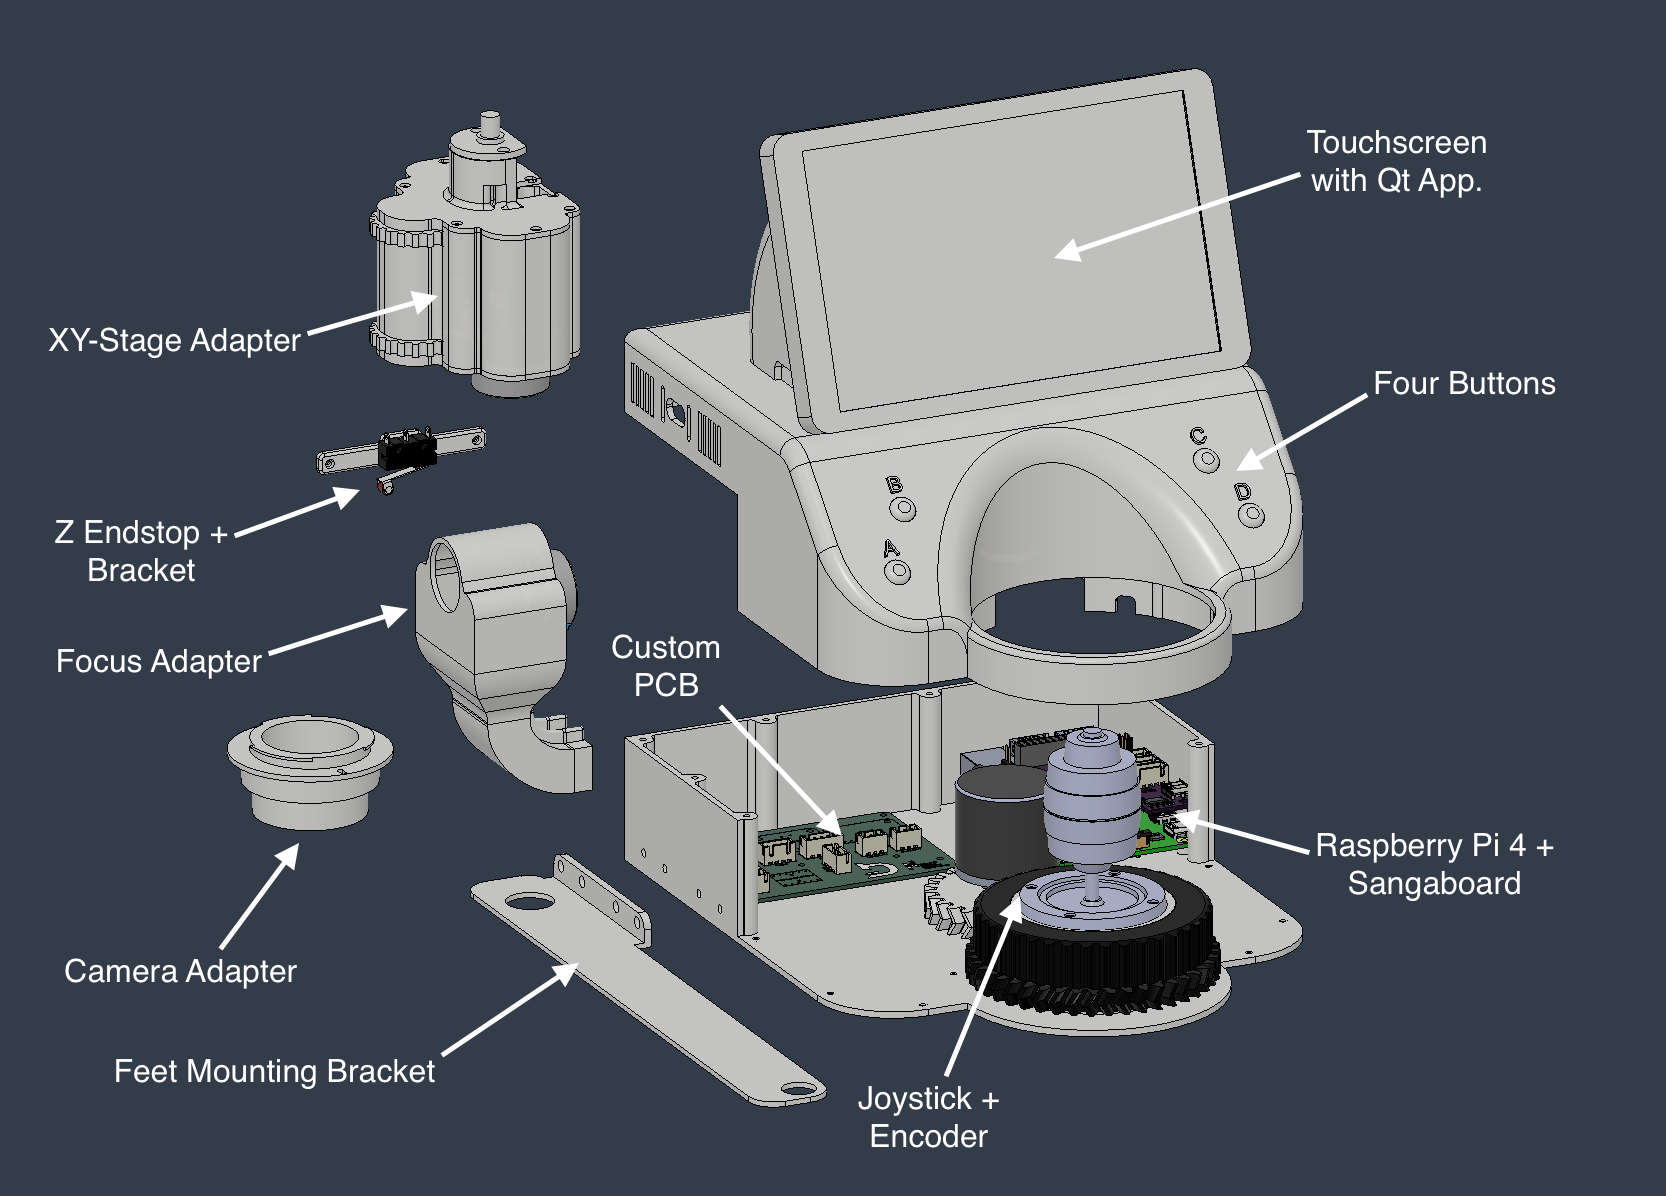
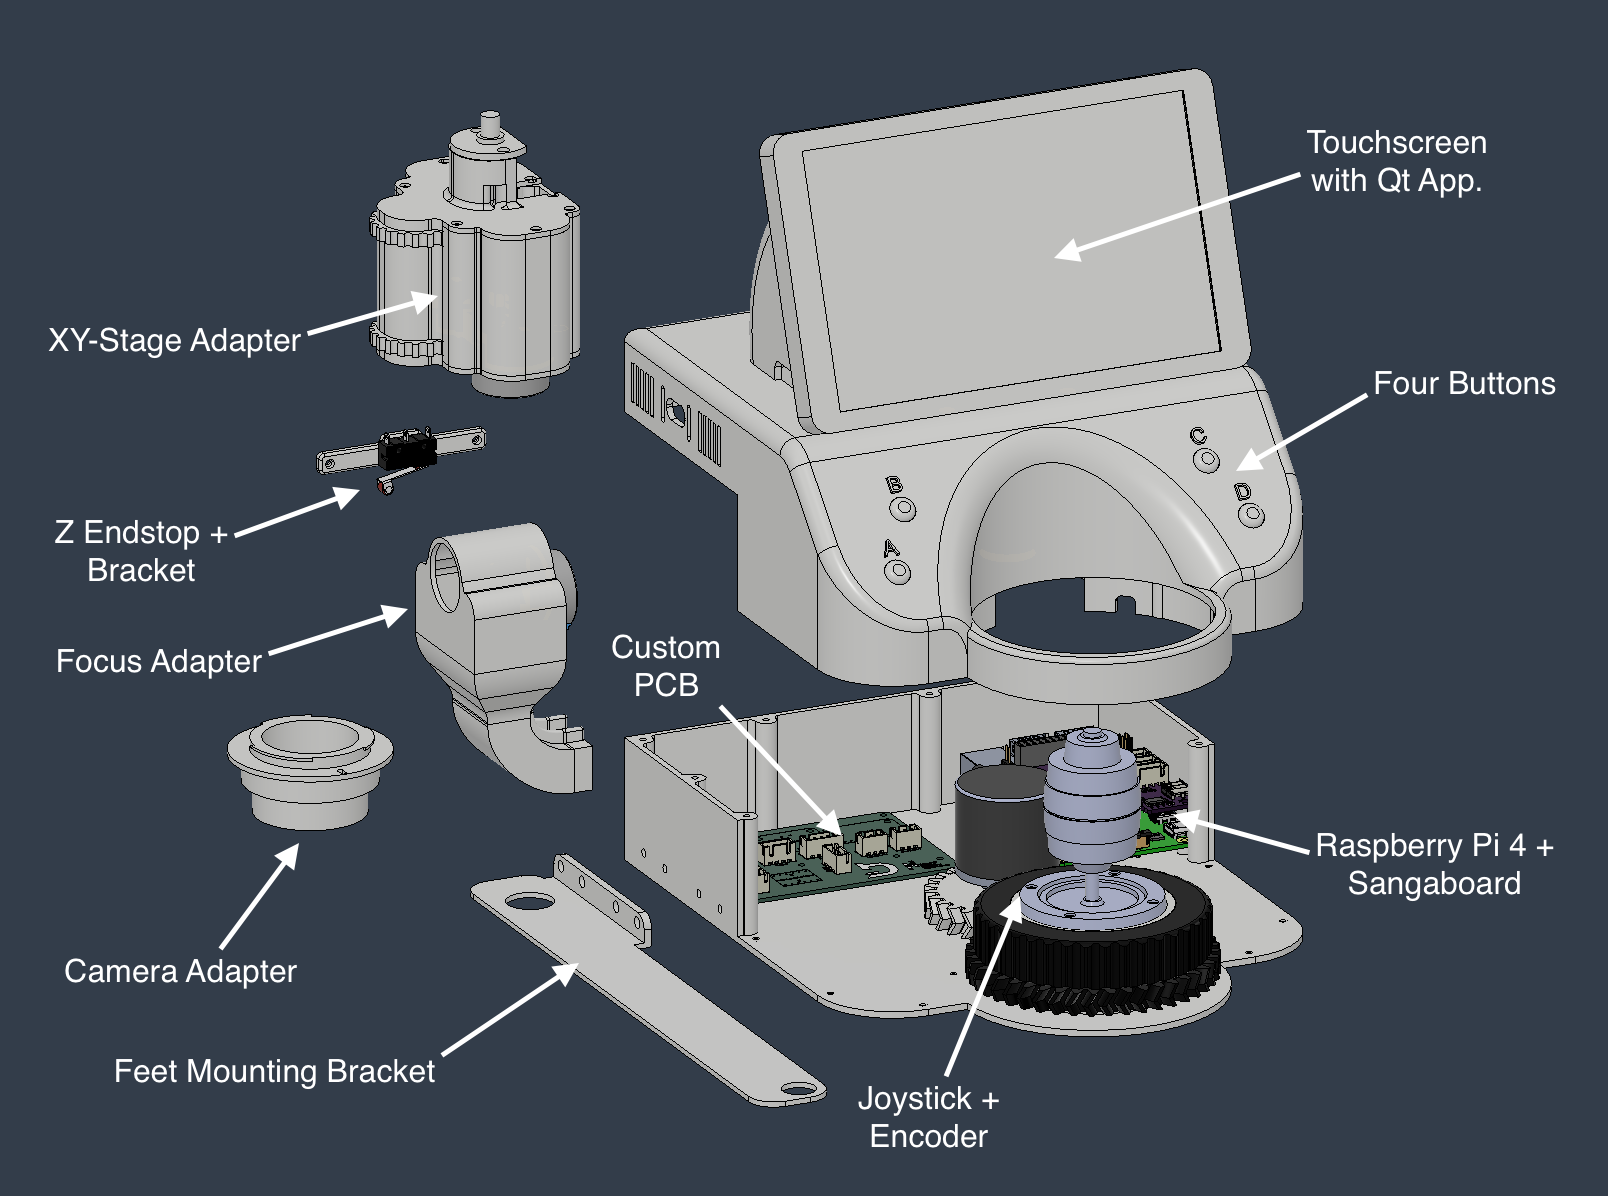
Updated readme for paper submission

diff --git a/paper/paper.tex b/paper/paper.tex
@@ -20,7 +20,7 @@
 %
 \begin{document}
 %
-\title{RetroScope: An Open Platform for Motorizing and Digitizing Vintage Microscopes}
+\title{RetroScope: An Open Framework for Motorizing and Digitizing Vintage Microscopes}
 
 % Marvin Carstensen
 % Justin Carstensen
@@ -60,7 +60,7 @@ ABC Institute, Rupert-Karls-University Heidelberg, Heidelberg, Germany\\
 %
 \begin{abstract}
 Many optical microscopes remain mechanically and optically useful for decades, even when they no longer
-match the digital and automated workflows expected in modern laboratories or teaching environments. Replacing such instruments can be expensive and wasteful. Yet, they are of limited use for recent, more digital, workflows. This paper presents RetroScope, an open retrofit platform that motorizes and digitizes vintage optical microscopes while preserving the existing microscope body. The platform contributes a parameterized mechanical adapter strategy for coupling low-cost motors to existing focus and XY-stage controls, an embedded Raspberry Pi-based hardware and software stack, image-based calibration for pixel scale, stage scale, and backlash compensation. Autofocus, focus stacking, and tile scanning are implemented as integration examples that exercise calibrated motion and image capture. A prototype was evaluated on a vintage upright microscope using H\&E-stained animal specimen and calibration slides. On the 4x objective, repeated stage-scale calibration produced 200-step standard deviations of 0.058 and 0.066 $\mu$m/step for X and Y. A hysteresis backlash model reduced the 200-step X forward error from $204.3\pm10.8$ $\mu$m without compensation to $11.4\pm2.9$ $\mu$m. These results support RetroScope as a resource-conscious, extensible prototype for accessible microscope automation, while also showing the limits of low-cost open-loop mechanics.
+match the digital and automated workflows expected in modern laboratories or teaching environments. Replacing such instruments can be expensive and wasteful. Yet, they are of limited use for recent, more digital, workflows. This paper presents RetroScope, an open retrofit framework that motorizes and digitizes vintage optical microscopes while preserving the existing microscope body. The platform contributes a parameterized mechanical adapter strategy for coupling low-cost motors to existing focus and XY-stage controls, an embedded Raspberry Pi-based hardware and software stack, image-based calibration for pixel scale, stage scale, and backlash compensation. Autofocus, focus stacking, and tile scanning are implemented as integration examples that exercise calibrated motion and image capture. A prototype was evaluated on a vintage upright microscope using H\&E-stained animal specimen and calibration slides. On the 4x objective, repeated stage-scale calibration produced 200-step standard deviations of 0.058 and 0.066 $\mu$m/step for X and Y. A hysteresis backlash model reduced the 200-step X forward error from $204.3\pm10.8$ $\mu$m without compensation to $11.4\pm2.9$ $\mu$m. These results support RetroScope as a resource-conscious, extensible prototype for accessible microscope automation, while also showing the limits of low-cost open-loop mechanics.
 
 \keywords{Low-resource digital pathology \and Microscope automation \and Open hardware \and Image-based calibration}
 % Authors must provide keywords and are not allowed to remove this Keyword section.
@@ -114,7 +114,7 @@ The prototype was built around a vintage upright microscope (Nikon Optiphot 66).
 \centering
 \begin{tabular}{cc}
 \includegraphics[width=0.5\textwidth]{figures/platform_render.png} &
-\includegraphics[width=0.5\textwidth]{figures/platform_prototype.png} \\
+\includegraphics[width=0.5\textwidth]{figures/platform_prototype_new.png} \\
 {\small (a) CAD render and microscope 3d scan.} &
 {\small (b) Full assembled prototype.}
 \end{tabular}
@@ -157,7 +157,7 @@ Focus stacking captures a sequence of Z planes and produces a blended result whi
 \centering
 \begin{tabular}{@{}cc@{}}
 \includegraphics[width=0.478\textwidth]{figures/ui_live_view.png} &
-\includegraphics[width=0.522\textwidth]{figures/tile_scan_stitched.png} \\
+\includegraphics[width=0.522\textwidth]{figures/tile_scan_stitched_colorgrad_crop.png} \\
 {\small (a) The live-view interface.} &
 {\small (b) Stitched tile scan.}
 \end{tabular}
@@ -172,7 +172,7 @@ The RetroScope framework was evaluated by building a digitized microscope on top
 
 The evaluation used the complete prototype: printed adapters, embedded electronics, custom PCB, Sangaboard-controlled motors, motion controller, and calibration workflows. Experiments used calibration slides and exemplary formalin fixed paraffin embedded tissue, stained with hematoxylin and eosin standard dye to evaluate the platform behavior, not clinical diagnostic performance.
 
-Three experiments were conducted. Stage-scale repeatability measured how consistently motor steps mapped to XY-stage displacement. For each trial, the stage was moved by a known number of motor steps, the resulting image shift on a slide was measured, and the displacement was converted to $\mu$m/step using the pixel scale. Motion accuracy and backlash compensation used the same image-displacement principle, but compared three movement modes: no compensation, a direction-sign compensation model, and the hysteresis-band model described above. The reported forward error is the difference between measured optical displacement and commanded calibrated displacement. The reversal residual is the remaining optical offset after a return move. Calibration repeatability repeated selected calibration measurements to test whether the same profile values could be recovered consistently.
+Three experiments were conducted: Stage-scale repeatability measured how consistently motor steps mapped to XY-stage displacement. For each trial, the stage was moved by a known number of motor steps, the resulting image shift on a slide was measured, and the displacement was converted to $\mu$m/step using the pixel scale. Motion accuracy and backlash compensation used the same image-displacement principle, but compared three movement modes: no compensation, a direction-sign compensation model, and the hysteresis-band model described above. The reported forward error is the difference between measured optical displacement and commanded calibrated displacement. The reversal residual is the remaining optical offset after a return move. Calibration repeatability repeated selected calibration measurements to test whether the same profile values could be recovered consistently.
 
 \subsection{Motion and Calibration Results}
 
@@ -210,7 +210,7 @@ The results support RetroScope as a working low-cost retrofit prototype for micr
 
 The evaluation also bounds the claims. RetroScope is not a precision stage and does not replace a clinical whole-slide scanner. It controls a chain of existing microscope mechanics, printed gears, low-cost steppers, and open-loop estimates. Backlash compensation can improve predictable lost motion, but it cannot remove flex, missed steps, manual disturbances, or optical artifacts. Quantitative motion evaluation was done for a 4$\times$ objective, and physical adaptation was demonstrated on one microscope body and virtually through the parametric model.
 
-Several limitations therefore remain. The prototype was validated on a single microscope body, so the parametric model demonstrates adaptability as a design principle but not yet as a broad empirical claim across microscope families. The system also tracks commanded motor position rather than measured sample position, which means that calibration can become invalid after manual stage movement, loosened printed parts, changed friction, or missed steps. Finally, this paper does not quantify diagnostic image quality, focus-stack quality, tile-alignment accuracy, or long-term unattended robustness. These gaps are important because low-resource deployment depends not only on whether a scan can be completed, but also on whether the resulting data is stable enough for the intended use.
+Several limitations therefore remain. The prototype was validated on a single microscope body, so the parametric model demonstrates adaptability as a design principle but not yet as a broad empirical claim across microscope families. The system also tracks commanded motor position rather than measured sample position, which means that calibration can become invalid after manual stage movement, loosened printed parts, changed friction, or missed steps. Finally, this paper does not quantify diagnostic image quality, focus-stack quality, or tile-alignment accuracy. These gaps are important because low-resource deployment depends not only on whether a scan can be completed, but also on whether the resulting data is stable enough for the intended use.
 
 Nevertheless, the prototype demonstrates that vintage microscopes can be extended into programmable digital imaging systems without discarding the original optical instrument. Autofocus, focus stacking, and tile scanning serve as integrated validation tasks showing that calibration and compensation are sufficient for repeated automated operation under the tested conditions. Future work should add closed-loop sensing, physical validation on additional microscope bodies, flat-field correction for tile scans, and more detailed workflow quality metrics.
 

diff --git a/README.md b/README.md
@@ -6,9 +6,9 @@
 
 ---
 
-**An Open Platform for Motorizing and Digitizing Vintage Microscopes**
+**An Open Framework for Motorizing and Digitizing Vintage Microscopes**
 
-RetroScope is an open-source platform for older analog microscopes. It combines software, digital imaging, motorized stage and focus control, calibration workflows, and adaptable mechanical parts so that existing microscopes can be upgraded instead of replaced.
+RetroScope is an open-source framework for older analog microscopes. It combines software, digital imaging, motorized stage and focus control, calibration workflows, and adaptable mechanical parts so that existing microscopes can be upgraded instead of replaced.
 
 <p align="center">
   <img src="retroscope/qml/icons/IMG_1884.jpeg" alt="RetroScope" width="49%">
@@ -19,7 +19,7 @@ The project was developed as part of the master's thesis **"Retrofitting a Vinta
 
 ## Overview
 
-RetroScope is not just a single application. It is intended as a complete retrofit platform:
+RetroScope is not just a single application. It is intended as a complete retrofit framework:
 
 - **Control software**: Python/PySide6 backend with a QML touchscreen interface.
 - **Embedded system**: Raspberry Pi-based embedded system with mock/development support for desktop.